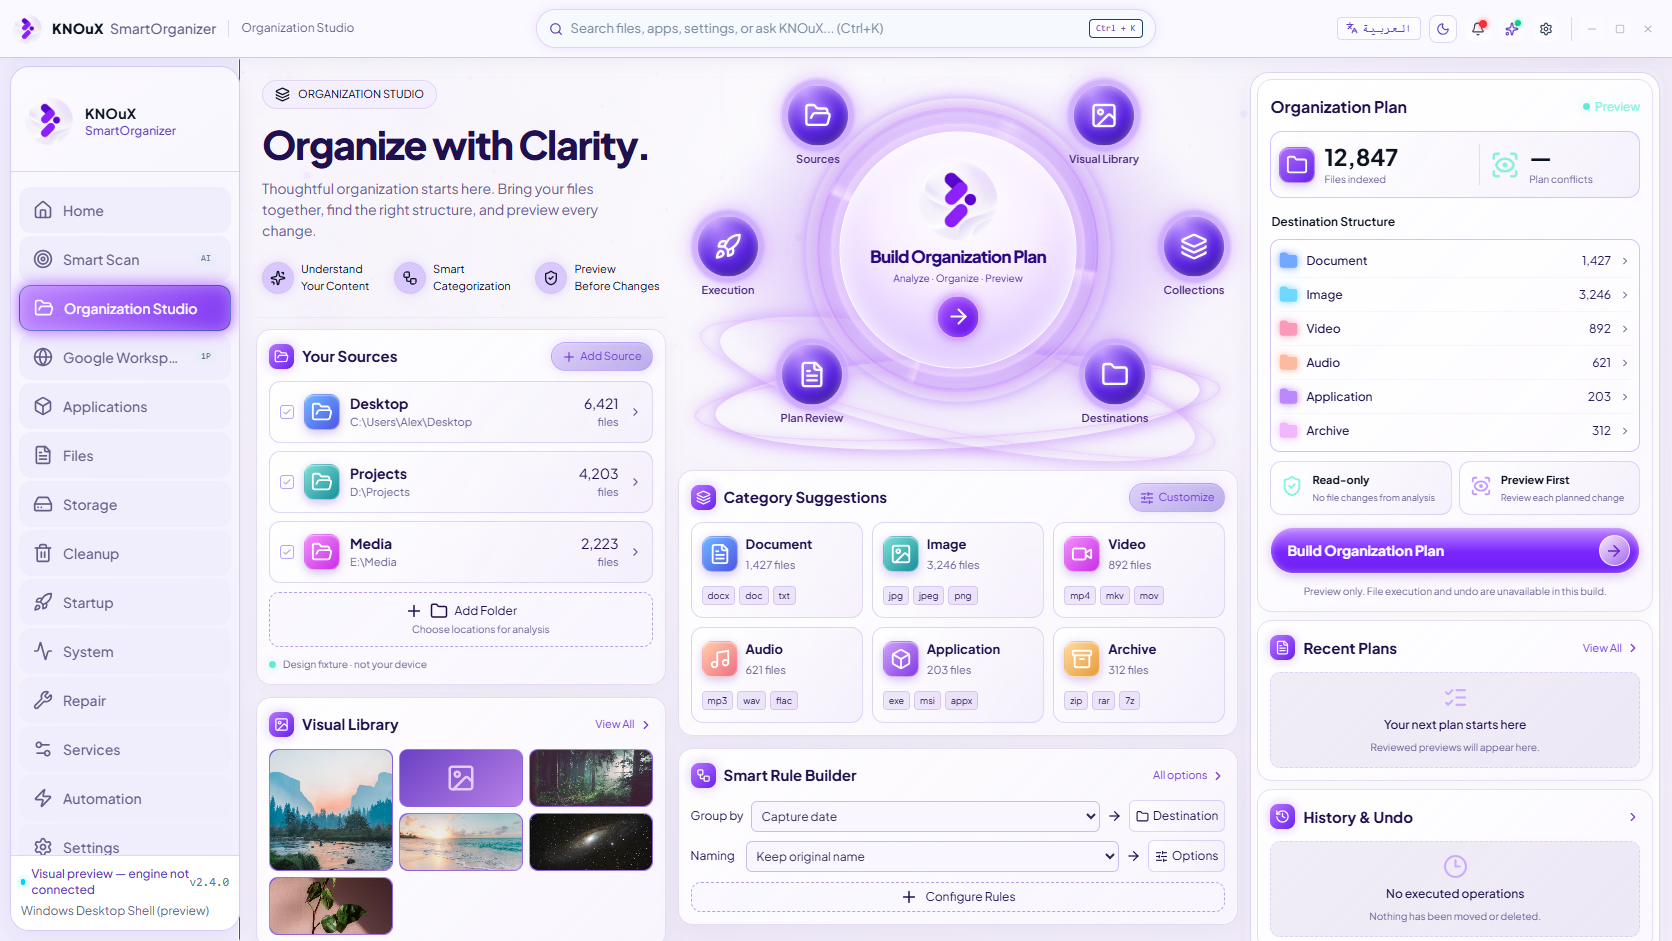
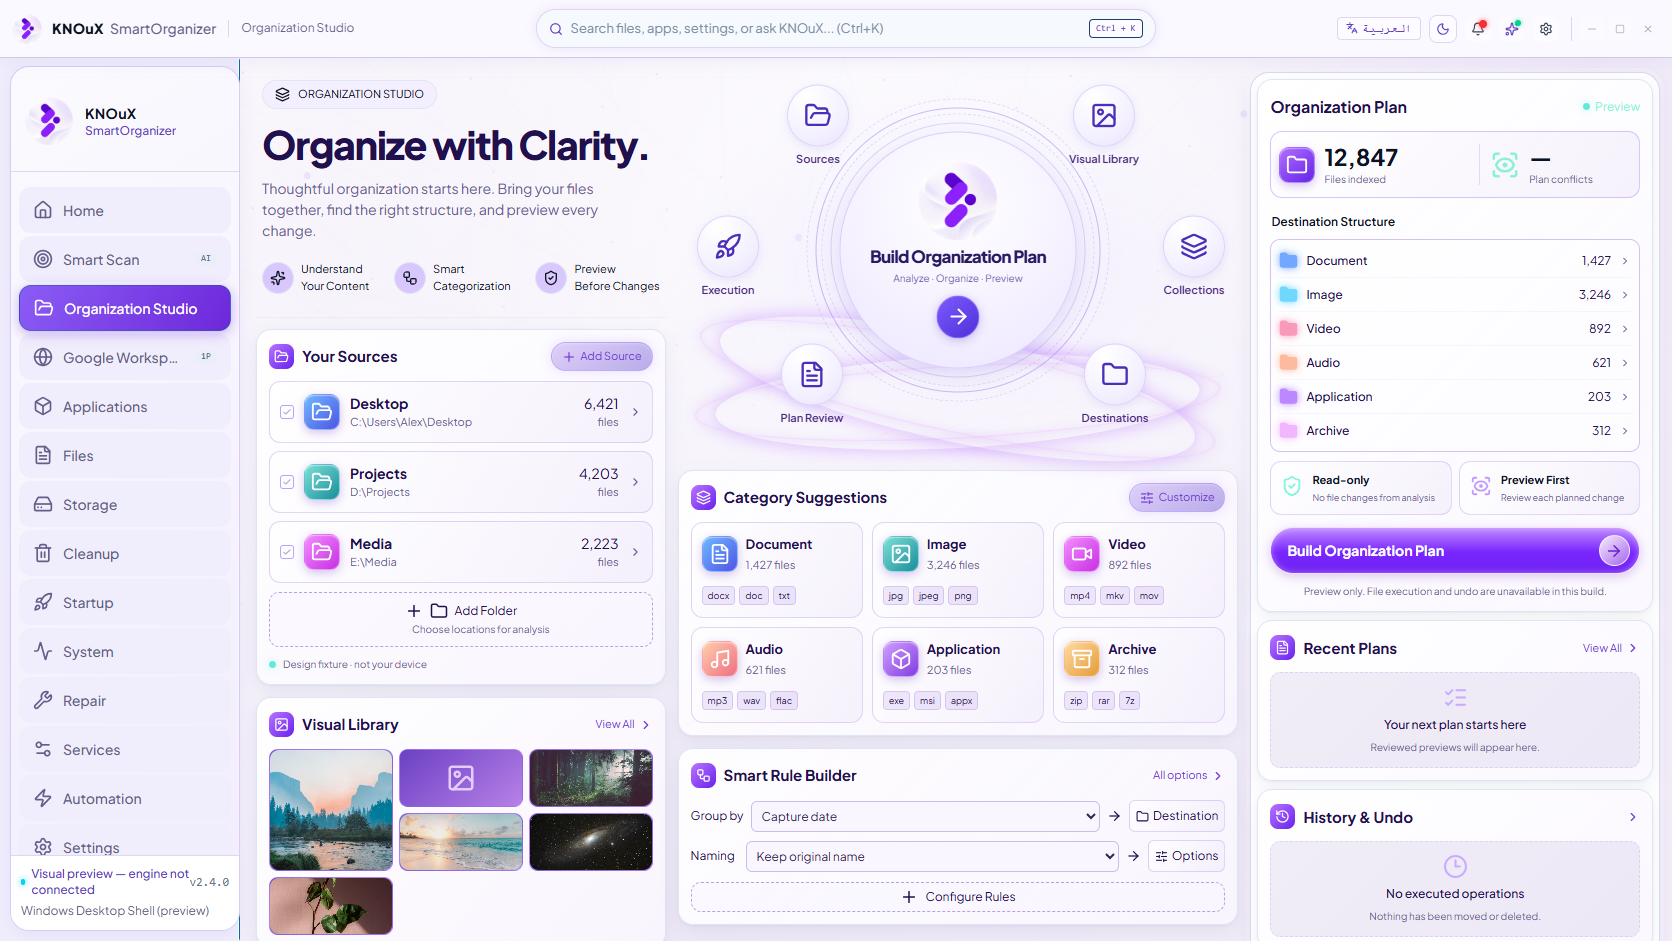
feat(visual): restore the navy night identity across the reference shells
The paired night references show deep navy instruments with violet used only
as an accent. The reconstructed shells had drifted to a violet canvas, and the
orbital dial stacked a blurred aura, a conic-gradient ring, two halo rings and
a 42px outer glow on top of itself, which read as fog rather than a control.

reference-restraint.css corrects materials only. It loads last so it wins the
cascade without editing each screen's stylesheet, and it changes no structure,
orbit destination or behaviour. The night shell, Studio canvas and sidebar rail
return to navy with a single violet active pill; the aura, ring, core and
satellites drop to one thin ring each; card backdrop blur and the atmosphere
starburst glow come down.

Daylight is untouched: the night token block is deliberately narrower than the
html[data-theme=light] pair in reference-controls.css, so it cannot leak.

Studio keeps its honest state: fixture sources stay labelled "Design fixture -
not your device", the dial still only builds a preview plan, and the read-only
and no-execution notices are unchanged.

visual-preview.mjs takes the preview port from KNOX_PREVIEW_PORT so parallel
worktrees can capture evidence without sharing one dev server.

diff --git a/apps/gemini-ui/src/visual/reference-restraint.css b/apps/gemini-ui/src/visual/reference-restraint.css
@@ -1,0 +1,200 @@
+/**
+ * KNOuX SmartOrganizer — reference-shell restraint layer
+ *
+ * The paired references define a deep-navy night instrument with violet used
+ * only as an accent. The reconstructed shells had drifted: the Studio canvas
+ * went fully violet, and the orbital dial stacked a blurred aura, a conic
+ * gradient ring, two halo rings and a 42px outer glow on top of itself, which
+ * read as fog rather than an instrument.
+ *
+ * This layer corrects materials only. Structure, orbit destinations, controls
+ * and behaviour are untouched, and daylight keeps its own lighter treatment.
+ * Loads last so it wins the cascade without editing each screen's stylesheet.
+ */
+
+/* ==========================================================================
+   Night canvas — deep navy, violet demoted to accent
+   ========================================================================== */
+
+.visual-sprint[data-visual-section='studio']:has(.knx-studio-reference) {
+  --ref-ink: #f4f6ff;
+  --ref-muted: #aab4d4;
+  --ref-border: #2c3a63;
+  --ref-card: linear-gradient(160deg, #101a33 0%, #0c142a 55%, #0a1124 100%);
+  --ref-inset: linear-gradient(120deg, #0e1830, #0b1326);
+  --ref-strong: #cbbaff;
+  --ref-shadow: 0 1px 0 rgba(255, 255, 255, 0.04) inset, 0 6px 18px rgba(2, 5, 14, 0.5);
+  background: #070b18;
+}
+
+.visual-sprint[data-visual-section='studio'] main > .knx-studio-reference {
+  background:
+    radial-gradient(ellipse 60% 45% at 78% 6%, rgba(124, 92, 255, 0.16), transparent 60%),
+    radial-gradient(ellipse 50% 40% at 4% 92%, rgba(56, 132, 255, 0.1), transparent 62%),
+    linear-gradient(150deg, #080d1c 0%, #0a1122 55%, #070b18 100%) !important;
+}
+
+/* Daylight keeps the approved soft lavender; only the fog comes down. */
+html[data-theme='light'] .visual-sprint[data-visual-section='studio']:has(.knx-studio-reference) {
+  --ref-border: #e0e5f5;
+  --ref-shadow: 0 6px 18px rgba(30, 38, 90, 0.07), 0 1px 2px rgba(30, 38, 90, 0.05);
+}
+
+/* ==========================================================================
+   Atmosphere — present, but quiet
+   ========================================================================== */
+
+.visual-sprint[data-reference-shell='true'] .knx-reference-atmosphere {
+  opacity: 0.32;
+}
+
+.visual-sprint[data-reference-shell='true'] .knx-reference-atmosphere svg {
+  filter: none;
+}
+
+.visual-sprint[data-reference-shell='true'] .knx-starbursts {
+  filter: none;
+  opacity: 0.5;
+}
+
+/* ==========================================================================
+   Orbital dial — one thin ring, discrete satellites, no stacked glow
+   ========================================================================== */
+
+.visual-sprint[data-reference-shell='true'] .knx-orbit-aura {
+  background: radial-gradient(ellipse at 50% 48%, rgba(146, 118, 255, 0.14) 0%, rgba(146, 118, 255, 0.05) 42%, transparent 68%);
+  filter: none;
+}
+
+.visual-sprint[data-reference-shell='true'] .knx-reference-ring {
+  border: 1px solid rgba(150, 128, 235, 0.5);
+  background: transparent;
+  box-shadow: none;
+}
+
+.visual-sprint[data-reference-shell='true'] .knx-reference-ring::after {
+  inset: -10px;
+  border: 1px dashed rgba(150, 128, 235, 0.26);
+  box-shadow: none;
+}
+
+.visual-sprint[data-reference-shell='true'] .knx-reference-ring.inner {
+  border: 1px solid rgba(150, 128, 235, 0.3);
+  box-shadow: none;
+}
+
+/* The equator ellipses are the other half of the fog; keep them as guides. */
+.visual-sprint[data-reference-shell='true'] .knx-orbit-equator {
+  opacity: 0.4;
+  filter: none;
+}
+
+/* Core: a dark instrument face at night so the emblem and label stay legible. */
+.visual-sprint[data-reference-shell='true'] .knx-reference-orbit-core {
+  border: 1px solid rgba(160, 136, 245, 0.55);
+  background: radial-gradient(circle at 50% 28%, #16203c 0%, #0e1730 55%, #0a1124 100%);
+  box-shadow: inset 0 1px 0 rgba(255, 255, 255, 0.06), 0 0 0 6px rgba(126, 98, 230, 0.07);
+  color: #eef1ff !important;
+}
+
+.visual-sprint[data-reference-shell='true'] .knx-reference-orbit-core small {
+  color: #9aa6cc;
+}
+
+.visual-sprint[data-reference-shell='true'] .knx-reference-orbit-core > span {
+  background: linear-gradient(140deg, #7c5cff, #4f2fd8);
+  box-shadow: 0 2px 10px rgba(96, 66, 220, 0.35);
+  border-color: rgba(178, 152, 255, 0.6);
+}
+
+/* Satellites: navy discs with a single thin ring, not double halos. */
+.visual-sprint[data-reference-shell='true'] .knx-reference-satellite > span {
+  border: 1px solid rgba(158, 134, 240, 0.5);
+  background: radial-gradient(circle at 32% 18%, #1d2748 0%, #131d38 60%, #0d1528 100%);
+  box-shadow: 0 0 0 3px rgba(126, 98, 230, 0.1);
+  color: #dfe4ff;
+}
+
+/* Daylight dial: the references show light discs with coloured glyphs. */
+html[data-theme='light'] .visual-sprint[data-reference-shell='true'] .knx-orbit-aura {
+  background: radial-gradient(ellipse at 50% 48%, rgba(167, 139, 250, 0.16) 0%, rgba(167, 139, 250, 0.04) 45%, transparent 70%);
+}
+
+html[data-theme='light'] .visual-sprint[data-reference-shell='true'] .knx-reference-orbit-core {
+  background: radial-gradient(circle at 50% 30%, #ffffff 0%, #f7f4ff 46%, #ece5ff 100%);
+  border-color: #d9cdfb;
+  box-shadow: 0 8px 22px rgba(96, 76, 210, 0.14);
+  color: #2a1a63 !important;
+}
+
+html[data-theme='light'] .visual-sprint[data-reference-shell='true'] .knx-reference-orbit-core small {
+  color: #6a5aa8;
+}
+
+html[data-theme='light'] .visual-sprint[data-reference-shell='true'] .knx-reference-satellite > span {
+  border-color: #ddd2fb;
+  background: radial-gradient(circle at 32% 18%, #ffffff 0%, #f4f1ff 60%, #e9e3fb 100%);
+  box-shadow: 0 3px 10px rgba(96, 76, 210, 0.12);
+  color: #4c2fb8;
+}
+
+/* ==========================================================================
+   Shell surround — the night references sit on near-black navy, not violet
+   ========================================================================== */
+
+/* Only the night tokens are set here. The daylight pair is declared with a
+   more specific html[data-theme='light'] selector in reference-controls.css,
+   so it still wins and this cannot leak into day. */
+.visual-sprint[data-reference-shell='true'] {
+  --v-bg: #070b18;
+  --v-panel: rgba(15, 24, 47, 0.88);
+  --v-panel-soft: rgba(11, 18, 38, 0.6);
+  --v-line: #24314f;
+}
+
+.visual-sprint[data-reference-shell='true'] {
+  background: radial-gradient(ellipse 55% 40% at 80% 0%, rgba(124, 92, 255, 0.12), transparent 60%), #070b18 !important;
+}
+
+/* ==========================================================================
+   Sidebar — the references show a navy rail with a violet active pill,
+   not a violet panel. Studio duplicates this rule, so both are covered.
+   ========================================================================== */
+
+.visual-sprint[data-reference-shell='true'] aside[class*='w-56'],
+.visual-sprint[data-visual-section='studio']:has(.knx-studio-reference) aside[class*='w-56'] {
+  background: linear-gradient(165deg, #101a33 0%, #0b1226 60%, #091021 100%) !important;
+  border-color: rgba(126, 108, 205, 0.32) !important;
+  box-shadow: 0 8px 22px rgba(2, 5, 14, 0.5) !important;
+  backdrop-filter: none;
+}
+
+.visual-sprint[data-reference-shell='true'] aside nav button[aria-current='page'],
+.visual-sprint[data-visual-section='studio']:has(.knx-studio-reference) aside nav button[aria-current='page'] {
+  background: linear-gradient(120deg, #8b5cf6, #6d28d9) !important;
+  border-color: rgba(196, 169, 255, 0.6);
+  box-shadow: 0 3px 12px rgba(109, 40, 217, 0.35) !important;
+}
+
+/* Daylight rail keeps the approved white card with a soft violet edge. */
+html[data-theme='light'] .visual-sprint[data-reference-shell='true'] aside[class*='w-56'] {
+  background: linear-gradient(145deg, #ffffff, #f6f3ff) !important;
+  border-color: #e2dcf8 !important;
+  box-shadow: 0 4px 18px rgba(96, 76, 210, 0.08) !important;
+}
+
+/* ==========================================================================
+   Cards — remove the blur fog that flattened the night hierarchy
+   ========================================================================== */
+
+.visual-sprint[data-reference-shell='true'] .knx-ref-card {
+  backdrop-filter: none;
+}
+
+.visual-sprint[data-reference-shell='true'] .knx-ref-card-head h2 > svg {
+  box-shadow: none;
+}
+
+.visual-sprint[data-reference-shell='true'] .knx-ref-values svg {
+  box-shadow: none;
+}

diff --git a/apps/gemini-ui/src/App.tsx b/apps/gemini-ui/src/App.tsx
@@ -57,6 +57,9 @@ import './visual/system-reference.css';
 // Home's day/night material layer must resolve last: it re-maps the literal
 // dark utilities inside .knx-home-root only, after the global light bridge.
 import './visual/home-reference.css';
+// Restraint pass over the reference shells: restores the navy night identity
+// and lifts the stacked orbital glow. Materials only, no structural change.
+import './visual/reference-restraint.css';
 import { CinematicEntry } from './features/cinematic-entry/CinematicEntry';
 
 export type { AppSection } from './context/NavigationContext';
